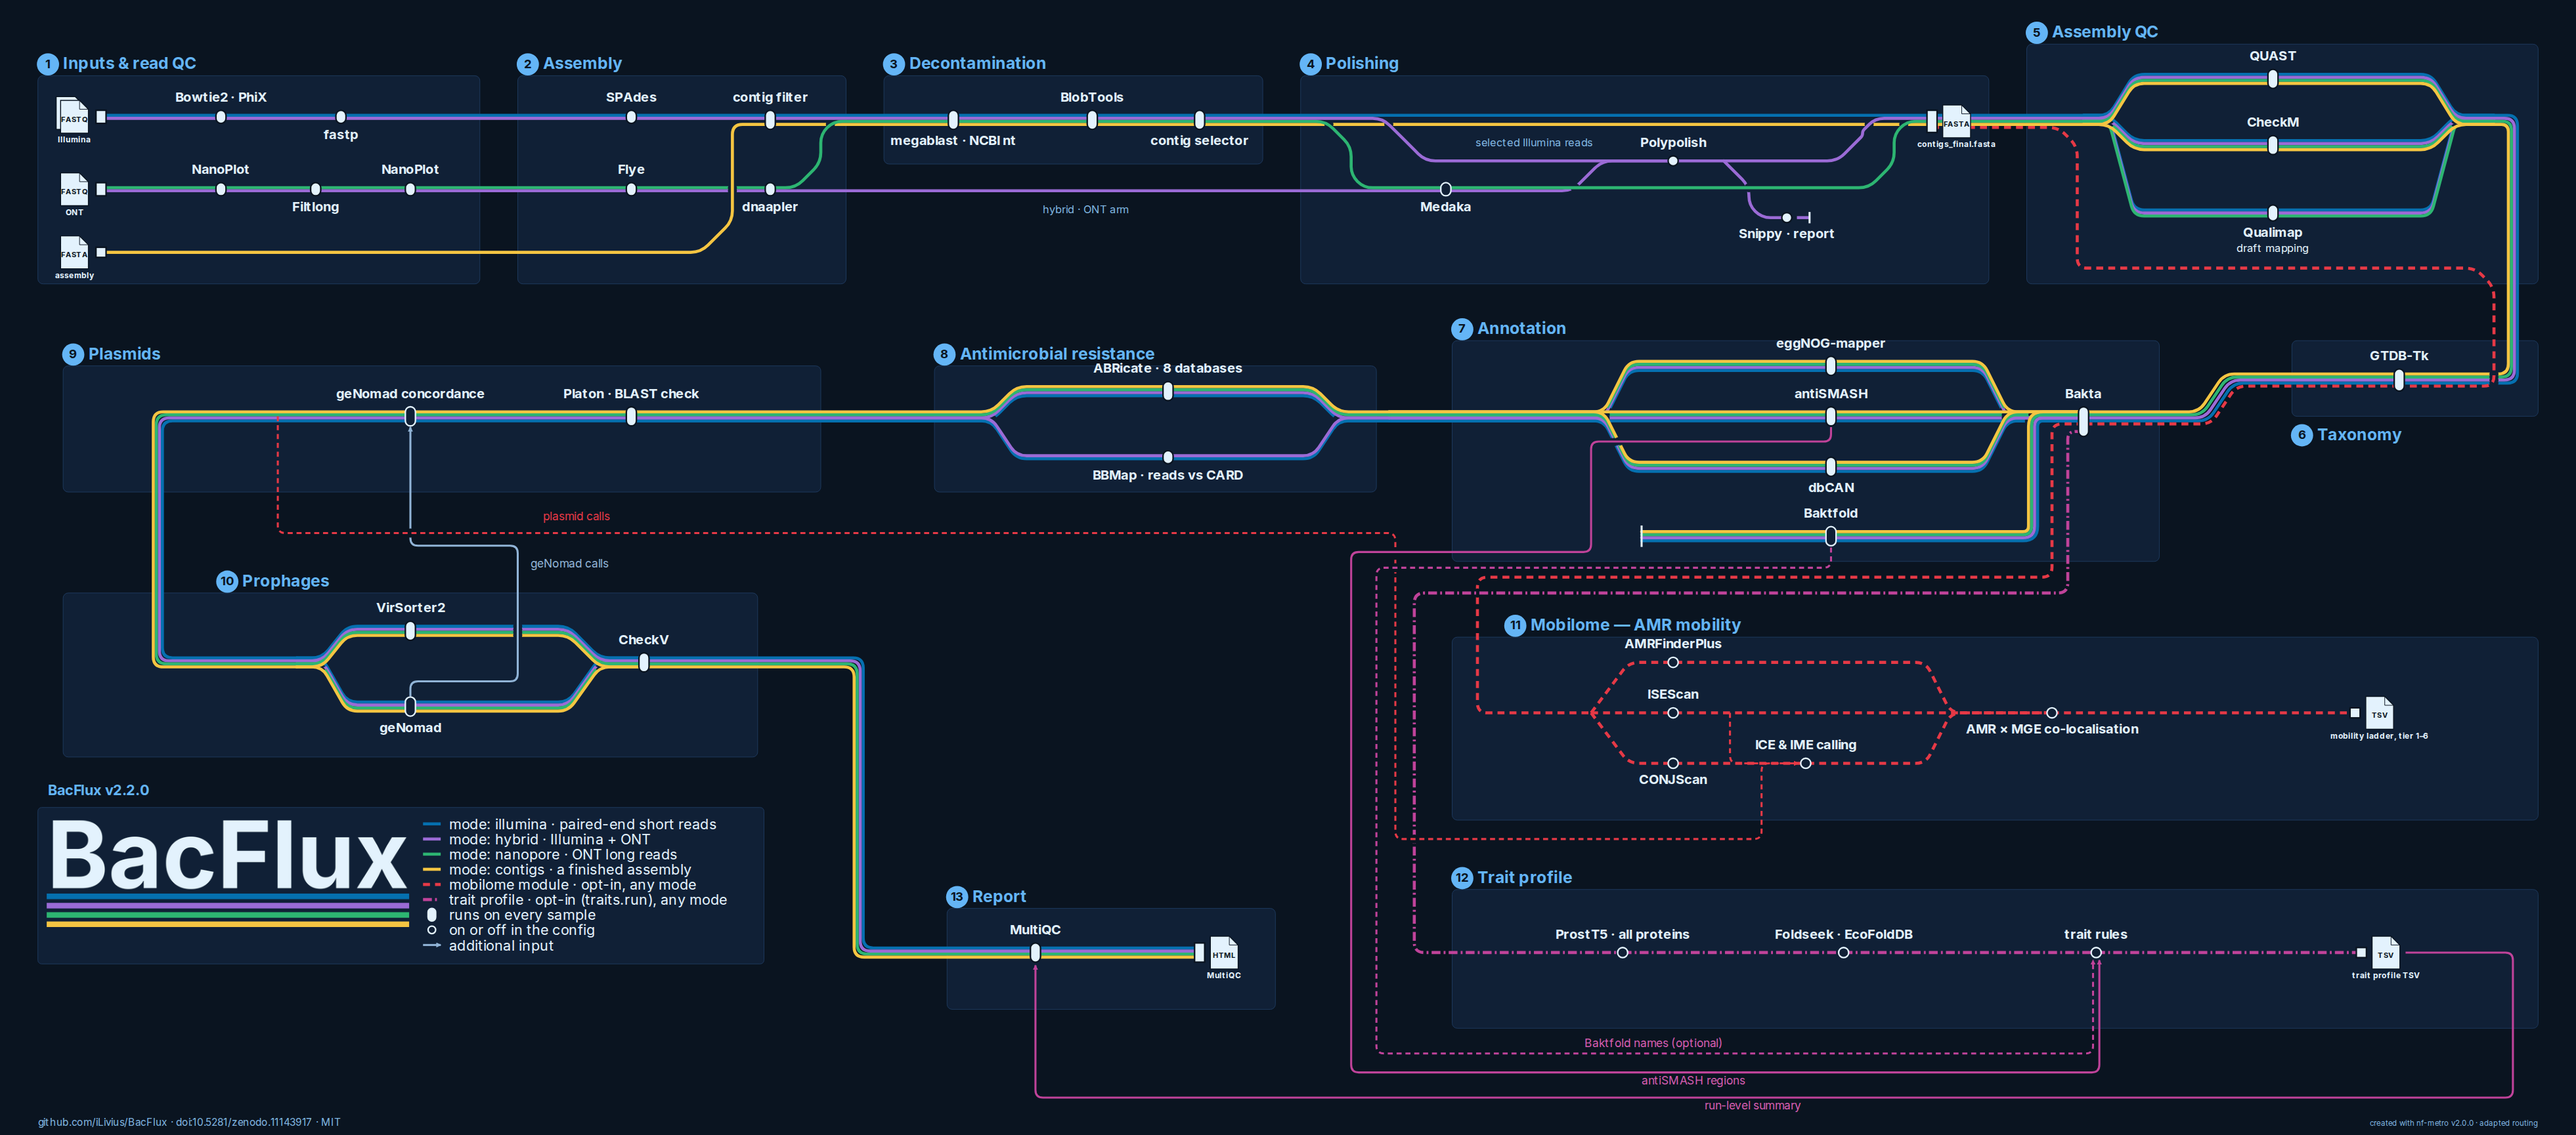
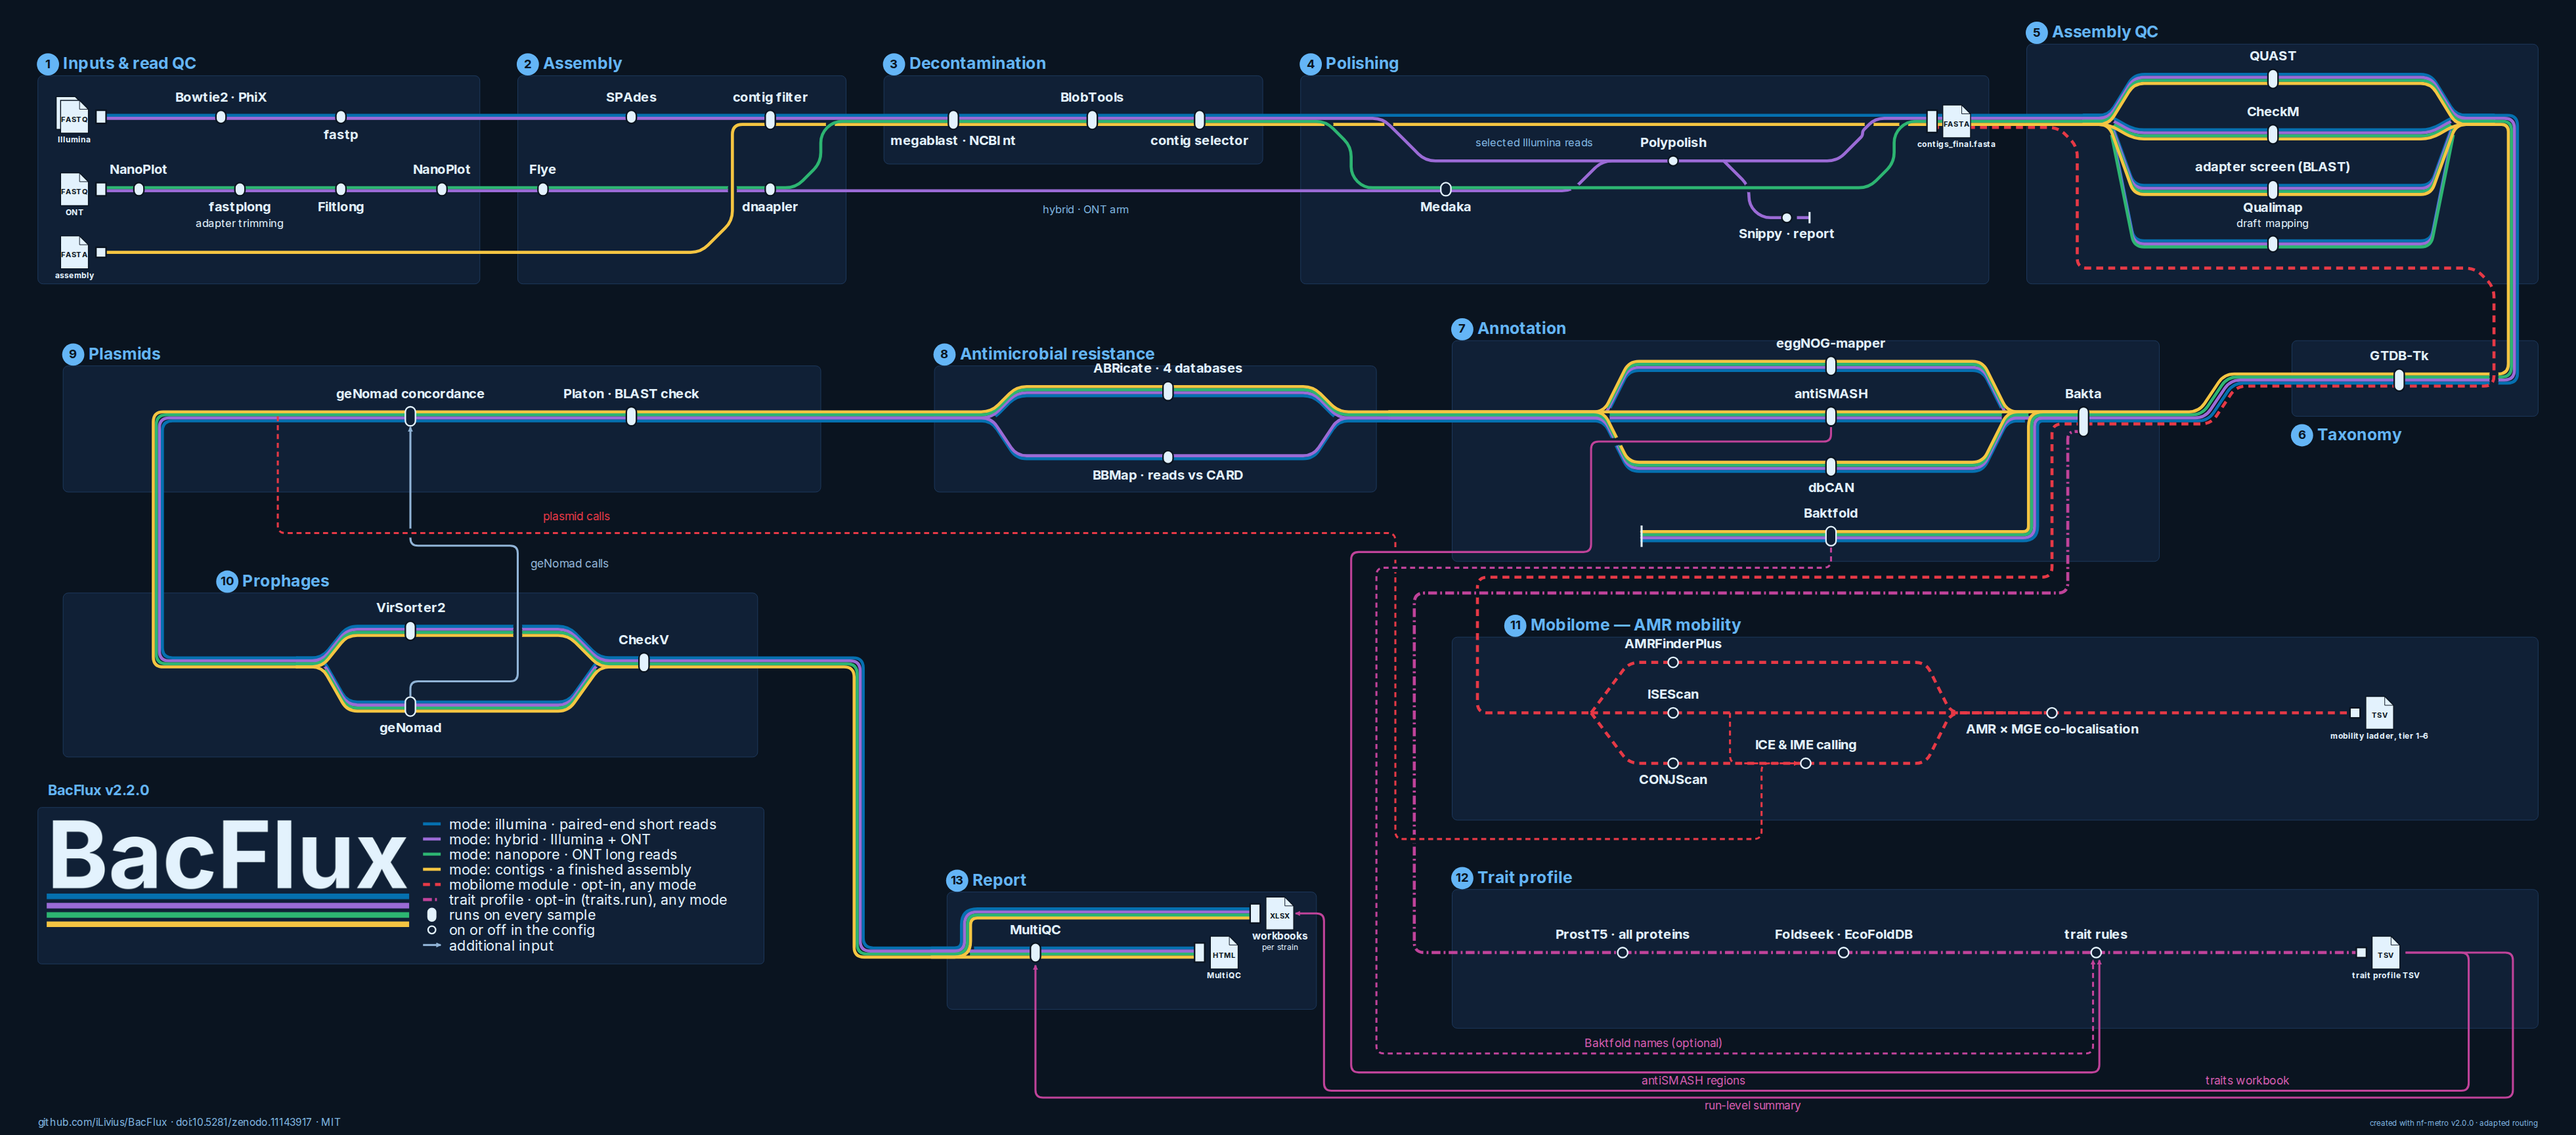
Show fastplong, the adapter screen and the workbooks on the metro maps
Both maps now draw fastplong on the ONT row before Filtlong, the BLAST
adapter screen in Assembly QC (all four modes), ABRicate's four databases
and the per-strain Excel workbooks beside the MultiQC report; on the
detailed map a feeder carries the trait results to the trait workbook.
The alt texts on the docs home page and in the README, and the text under
the map, describe the additions.

diff --git a/docs/index.md b/docs/index.md
@@ -33,8 +33,8 @@ family of pipelines.
 
 ## The workflow at a glance
 
-![Metro map of BacFlux v2.2.0. Blue (illumina), purple (hybrid), green (nanopore) and yellow (contigs) lines run through read QC, assembly, decontamination and polishing to contigs_final.fasta, then through assembly QC, taxonomy, annotation, antimicrobial resistance, plasmids and prophages to the MultiQC report. In the annotation box, an optional Baktfold branch leaves Bakta. A dashed red line, the optional mobilome module, reads the annotation, the taxonomy and the plasmid calls and ends in the mobility-ladder table. A magenta dash-dot line, the optional trait profile, leaves Bakta and runs through ProstT5 on all proteins, Foldseek against EcoFoldDB and the trait rules to the trait profile table. The trait rules also use Bakta's gene names; thin magenta feeders bring in the antiSMASH regions and, when Baktfold runs, its names, and a summary across samples feeds the MultiQC report.](assets/bacflux_metro.png#only-light)
-![Metro map of BacFlux v2.2.0. Blue (illumina), purple (hybrid), green (nanopore) and yellow (contigs) lines run through read QC, assembly, decontamination and polishing to contigs_final.fasta, then through assembly QC, taxonomy, annotation, antimicrobial resistance, plasmids and prophages to the MultiQC report. In the annotation box, an optional Baktfold branch leaves Bakta. A dashed red line, the optional mobilome module, reads the annotation, the taxonomy and the plasmid calls and ends in the mobility-ladder table. A magenta dash-dot line, the optional trait profile, leaves Bakta and runs through ProstT5 on all proteins, Foldseek against EcoFoldDB and the trait rules to the trait profile table. The trait rules also use Bakta's gene names; thin magenta feeders bring in the antiSMASH regions and, when Baktfold runs, its names, and a summary across samples feeds the MultiQC report.](assets/bacflux_metro_dark.png#only-dark)
+![Metro map of BacFlux v2.2.0. Blue (illumina), purple (hybrid), green (nanopore) and yellow (contigs) lines run through read QC, assembly, decontamination and polishing to contigs_final.fasta; on the nanopore and hybrid lines, fastplong trims adapters from the ONT reads before Filtlong. From there all four run through assembly QC (QUAST, CheckM, a BLAST adapter screen and, in the read-based modes, Qualimap), taxonomy, annotation, antimicrobial resistance (ABRicate with four databases), plasmids and prophages to the MultiQC report and the per-strain Excel workbooks. In the annotation box, an optional Baktfold branch leaves Bakta. A dashed red line, the optional mobilome module, reads the annotation, the taxonomy and the plasmid calls and ends in the mobility-ladder table. A magenta dash-dot line, the optional trait profile, leaves Bakta and runs through ProstT5 on all proteins, Foldseek against EcoFoldDB and the trait rules to the trait profile table. The trait rules also use Bakta's gene names; thin magenta feeders bring in the antiSMASH regions and, when Baktfold runs, its names, a summary across samples feeds the MultiQC report, and another feeder takes the trait results to the trait workbook.](assets/bacflux_metro.png#only-light)
+![Metro map of BacFlux v2.2.0. Blue (illumina), purple (hybrid), green (nanopore) and yellow (contigs) lines run through read QC, assembly, decontamination and polishing to contigs_final.fasta; on the nanopore and hybrid lines, fastplong trims adapters from the ONT reads before Filtlong. From there all four run through assembly QC (QUAST, CheckM, a BLAST adapter screen and, in the read-based modes, Qualimap), taxonomy, annotation, antimicrobial resistance (ABRicate with four databases), plasmids and prophages to the MultiQC report and the per-strain Excel workbooks. In the annotation box, an optional Baktfold branch leaves Bakta. A dashed red line, the optional mobilome module, reads the annotation, the taxonomy and the plasmid calls and ends in the mobility-ladder table. A magenta dash-dot line, the optional trait profile, leaves Bakta and runs through ProstT5 on all proteins, Foldseek against EcoFoldDB and the trait rules to the trait profile table. The trait rules also use Bakta's gene names; thin magenta feeders bring in the antiSMASH regions and, when Baktfold runs, its names, a summary across samples feeds the MultiQC report, and another feeder takes the trait results to the trait workbook.](assets/bacflux_metro_dark.png#only-dark)
 
 Each coloured line is one mode. The four lines take their own routes to
 `contigs_final.fasta`, the genome each mode delivers, and from there run through the
@@ -44,7 +44,8 @@ contigs are what Polypolish uses to correct the long-read assembly. An open ring
 a step the config switches on or off; the prophage stage runs VirSorter2 by default,
 or geNomad instead. The dashed red line is the optional mobilome module. The magenta
 dash-dot line is the optional trait profile; its thin arrows bring in the antiSMASH
-regions and, when Baktfold runs, Baktfold's names, and carry its summary to MultiQC.
+regions and, when Baktfold runs, Baktfold's names, and carry its summary to MultiQC and
+its results to the per-strain trait workbook.
 Select the map to open it larger; select it again to see it at full size, and close
 it with x or Esc.
 

diff --git a/README.md b/README.md
@@ -18,7 +18,7 @@ v2.2.0
 [![tests](https://github.com/iLivius/BacFlux/actions/workflows/tests.yml/badge.svg)](https://github.com/iLivius/BacFlux/actions/workflows/tests.yml)
 
 <!-- Workflow overview as a metro map, one coloured line per mode. GitHub shows the dark version to readers in dark mode and the light one otherwise. The detailed map is on the documentation home page (docs/index.md). -->
-<p align="center"><picture><source media="(prefers-color-scheme: dark)" srcset="docs/assets/bacflux_overview_dark.png"><img src="docs/assets/bacflux_overview.png" alt="BacFlux v2.2.0 workflow overview as a metro map. One coloured line per mode (Illumina, hybrid, Nanopore, contigs) runs from the reads, or from an assembly, to one final genome; from there all four pass assembly QC, taxonomy, annotation (with optional Baktfold), AMR, plasmids and prophages to a MultiQC report. A dashed red line is the optional mobilome module. A magenta dash-dot line is the optional trait profile: ProstT5, Foldseek against EcoFoldDB and trait rules, fed by Bakta's proteins and gene names, antiSMASH regions and optional Baktfold names; its summary feeds the MultiQC report."></picture></p>
+<p align="center"><picture><source media="(prefers-color-scheme: dark)" srcset="docs/assets/bacflux_overview_dark.png"><img src="docs/assets/bacflux_overview.png" alt="BacFlux v2.2.0 workflow overview as a metro map. One coloured line per mode (Illumina, hybrid, Nanopore, contigs) runs from the reads, or from an assembly, to one final genome; ONT reads are adapter-trimmed by fastplong before Filtlong. From there all four pass assembly QC (with a BLAST adapter screen), taxonomy, annotation (with optional Baktfold), AMR (ABRicate with four databases), plasmids and prophages to a MultiQC report and per-strain Excel workbooks. A dashed red line is the optional mobilome module. A magenta dash-dot line is the optional trait profile: ProstT5, Foldseek against EcoFoldDB and trait rules, fed by Bakta's proteins and gene names, antiSMASH regions and optional Baktfold names; its summary feeds the MultiQC report."></picture></p>
 
 The detailed map, step by step, is on the [documentation home page](https://iLivius.github.io/BacFlux/).
 
